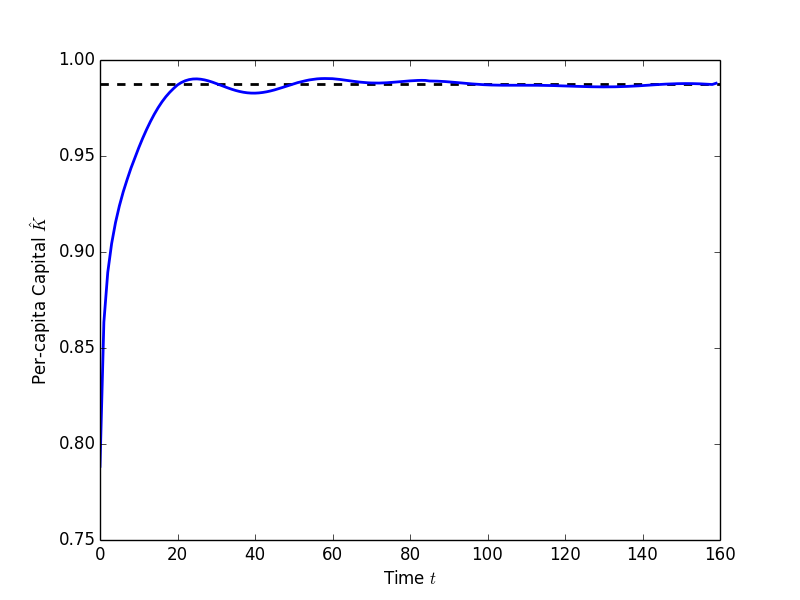
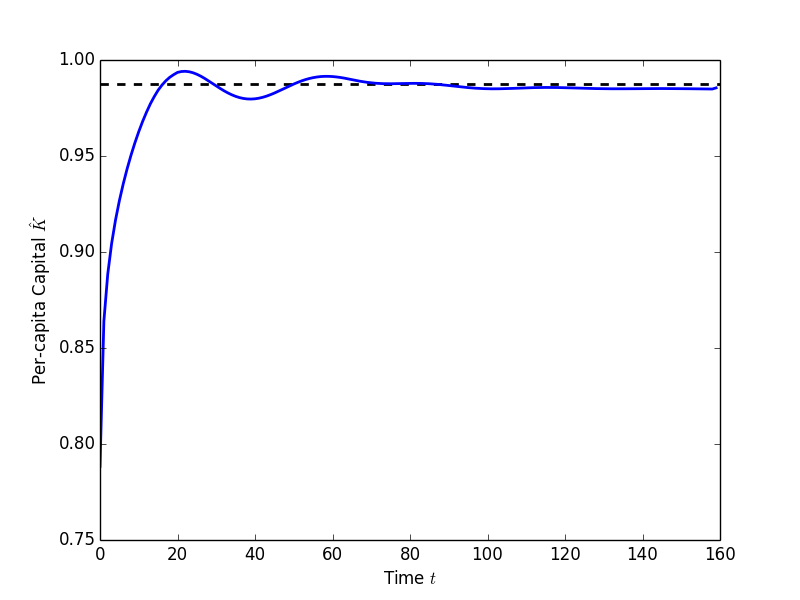
TPI

diff --git a/Python/5_lagrange/TPI.py b/Python/5_lagrange/TPI.py
@@ -393,22 +393,22 @@ def Euler_Error(guesses, winit, rinit, Binit, t):
     # Check and punish constraint violations
     mask2 = L_guess > ltilde
     error2[mask2] += 1e9
-    if K_guess.sum() <= 0:
-        error1 += 1e9
-    cons = (1 + r) * K1_2 + w * e[
-        -(length):, j] * L_guess + (1+r)*B/bin_weights[j] - K2_2 * np.exp(g_y)
-    mask3 = cons < 0
-    error2[mask3] += 1e9
-    bin1 = bin_weights[j]
-    b_min = np.zeros(length-1)
-    b_min[-1] = (ctilde + bqtilde - w1[-1] * e1[-1] * ltilde - B1[-1] / bin1) / (1 + r1[-1])
-    for i in xrange(length - 2):
-        b_min[-(i+2)] = (ctilde + np.exp(
-            g_y) * b_min[-(i+1)] - w1[-(i+2)] * e1[
-            -(i+2)] * ltilde - B1[-(i+2)] / bin1) / (1 + r1[-(i+2)])
-    difference = K_guess[:-1] - b_min
-    mask4 = difference < 0
-    error1[mask4] += 1e9
+    # if K_guess.sum() <= 0:
+    #     error1 += 1e9
+    # cons = (1 + r) * K1_2 + w * e[
+    #     -(length):, j] * L_guess + (1+r)*B/bin_weights[j] - K2_2 * np.exp(g_y)
+    # mask3 = cons < 0
+    # error2[mask3] += 1e9
+    # bin1 = bin_weights[j]
+    # b_min = np.zeros(length-1)
+    # b_min[-1] = (ctilde + bqtilde - w1[-1] * e1[-1] * ltilde - B1[-1] / bin1) / (1 + r1[-1])
+    # for i in xrange(length - 2):
+    #     b_min[-(i+2)] = (ctilde + np.exp(
+    #         g_y) * b_min[-(i+1)] - w1[-(i+2)] * e1[
+    #         -(i+2)] * ltilde - B1[-(i+2)] / bin1) / (1 + r1[-(i+2)])
+    # difference = K_guess[:-1] - b_min
+    # mask4 = difference < 0
+    # error1[mask4] += 1e9
     return list(error1.flatten()) + list(error2.flatten()) + list(error3.flatten()) + list(error4.flatten())
 
 
@@ -431,9 +431,9 @@ print 'Starting time path iteration.'
 euler_errors = np.zeros((T, 3*S, J))
 TPIdist_vec = np.zeros(TPImaxiter)
 nu_current = nu_init
-L_guesses = np.tile(initial_L.reshape(1, S, J), (T, 1, 1))
-K_guesses = np.tile(initial_K.reshape(1, S, J), (T, 1, 1))
-lambda_guesses = np.tile(lambdy.reshape(1, S, J), (T, 1, 1))
+L_guesses = np.tile(initial_L.reshape(1, S, J), (T+S, 1, 1))
+K_guesses = np.tile(initial_K.reshape(1, S, J), (T+S, 1, 1))
+lambda_guesses = np.tile(lambdy.reshape(1, S, J), (T+S, 1, 1))
 
 while (TPIiter < TPImaxiter) and (TPIdist >= TPImindist):
     plt.figure()
@@ -484,7 +484,9 @@ while (TPIiter < TPImaxiter) and (TPIdist >= TPImindist):
     K_mat[0, :, :] = initial_K
     L_mat[0, -1, :] = initial_L[-1, :]
     lam_mat[:, :slow_work, :] *= 0
-    L_guesses, K_guesses, lambda_guesses = L_mat, K_mat, lam_mat
+    L_guesses = (nu_current * L_mat) + (1-nu_current)*L_guesses
+    K_guesses = (nu_current * K_mat) + (1-nu_current)*K_guesses
+    lambda_guesses = (nu_current * lam_mat) + (1-nu_current)*lambda_guesses
     Knew = (omega_stationary[:T, :, :] * K_mat[:T, :, :]).sum(2).sum(1)
     Lnew = (omega_stationary[1:T+1, :, :] * e.reshape(
         1, S, J) * L_mat[:T, :, :]).sum(2).sum(1)
